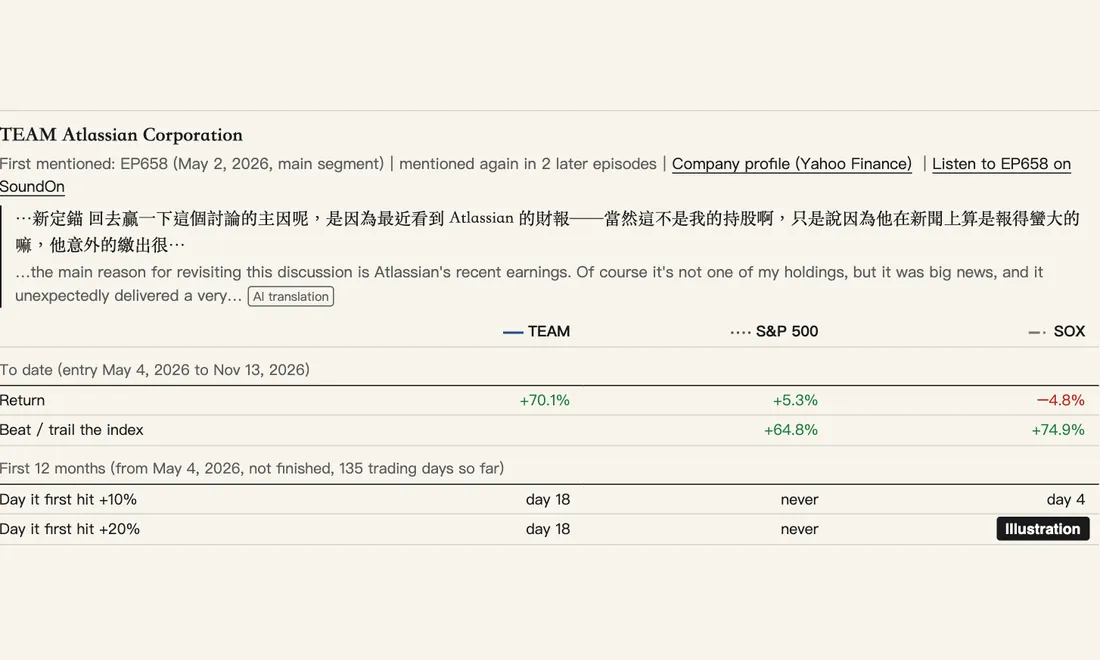
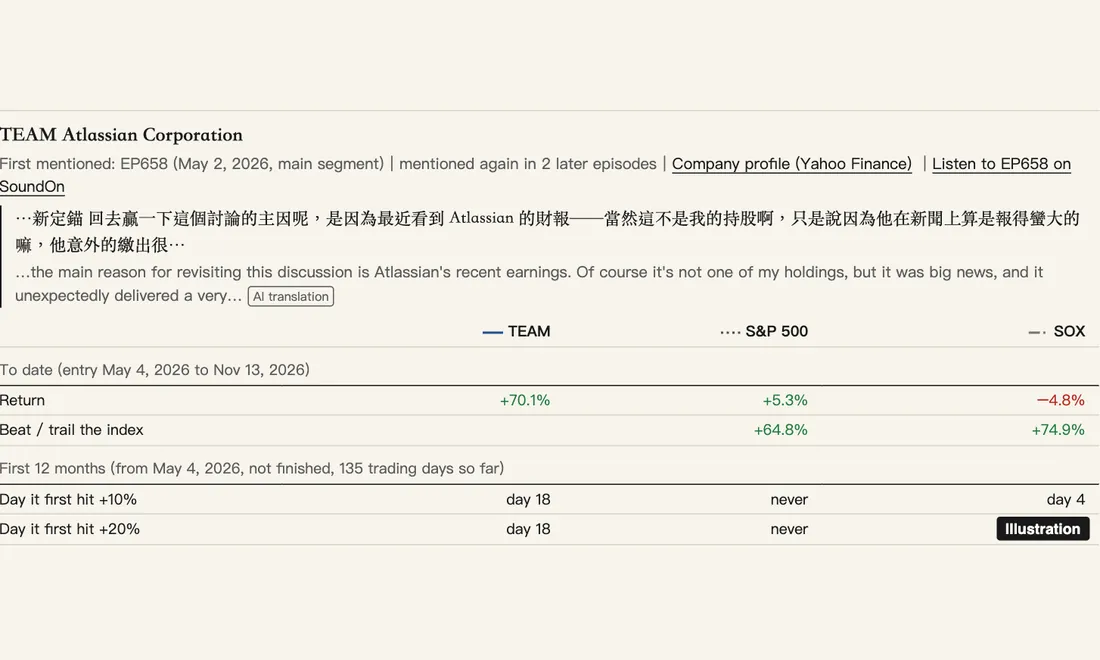
第十二版介面：明細拿掉本益比、本益比說明三行、純文字切換鈕與年份選單；每股盈餘更新

diff --git a/site/assets/i18n.js b/site/assets/i18n.js
@@ -57,16 +57,13 @@ const I18N = {
     modeRet: "報酬",
     modePe: "本益比",
     peInfoLabel: { mention: "首次提及時本益比說明", now: "現在本益比說明", fwd: "預估本益比說明" },
+    // 第一行標題、第二行公式、第三行說明（第十二版；表格的 ⓘ 和說明視窗共用）
     peInfo: {
-      mention: "首次提及時本益比：首次提及後進場那天的股價 ÷ 當時已公布的過去四季每股盈餘（正式財報）。和現在的本益比比較，可以看出股價變化是來自盈餘，還是市場給的評價變了。",
-      now: "現在本益比：股價 ÷ 過去四季每股盈餘（正式財報）。數字越高，代表市場願意為每一塊錢盈餘付越多，通常是期待成長，也可能是盈餘暫時很低。不同產業差很多，虧損的公司沒有本益比。只看本益比無法判斷是不是好買點。",
-      fwd: "預估本益比：股價 ÷ 分析師預估的未來 12 個月每股盈餘。預估可能落空，而且通常用調整後的盈餘，常比正式財報好看，所以常比現在本益比低，兩者不能直接比較。",
+      mention: "首次提及時本益比\n公式：首次提及後進場日的股價 ÷ 當時最近 4 季 EPS 總和\n和現在的本益比比較，可以看出股價變化是來自獲利，還是市場給的評價變了。",
+      now: "現在本益比\n公式：股價 ÷ 最近 4 季 EPS 總和\n衡量股價相對獲利的高低：越高代表股價相對獲利越貴，越低越便宜。但獲利成長越快，市場願意給的本益比也越高，所以要配合產業和成長性一起看。虧損的公司沒有本益比。",
+      fwd: "預估本益比\n公式：股價 ÷ 分析師預估的下一個會計年度 EPS\n預估可能落空，而且通常用調整後的獲利，常比正式財報好看，所以常低於現在本益比，兩者不能直接比較。",
     },
     peLoss: "虧損",
-    peSection: "本益比（只供參考）",
-    rowPeMention: "首次提及時本益比",
-    rowPeNow: "現在本益比",
-    rowPeFwd: "預估本益比（現在）",
     tableCaption: "每一檔第一次提到之後的報酬",
     yearAll: "全部",
     yearEarly: "早期（2020–2021）",
@@ -124,15 +121,11 @@ const I18N = {
     modePe: "P/E",
     peInfoLabel: { mention: "About P/E at first mention", now: "About P/E now", fwd: "About forward P/E" },
     peInfo: {
-      mention: "P/E at first mention: Share price on the entry day after the first mention ÷ the last four quarters of earnings per share reported by then (official filings). Comparing it with today’s P/E shows whether the price moved with earnings or with how much the market was willing to pay.",
-      now: "P/E now: Share price ÷ the last four quarters of earnings per share (official filings). A higher number means investors pay more for each dollar of earnings, usually because they expect growth, or because earnings are temporarily low. It varies a lot by industry, and loss-making companies have none. P/E alone can’t tell you whether it’s a good time to buy.",
-      fwd: "Forward P/E: Share price ÷ analysts’ estimate of earnings per share over the next 12 months. Estimates can miss, and they usually use adjusted earnings, which look better than official figures. That’s why it’s often lower than today’s P/E; the two aren’t directly comparable.",
+      mention: "P/E at first mention\nFormula: share price on the entry day after the first mention ÷ sum of EPS over the latest 4 quarters at the time\nComparing it with today’s P/E shows whether the price moved because of earnings or because the market’s valuation changed.",
+      now: "P/E now\nFormula: share price ÷ sum of EPS over the latest 4 quarters\nMeasures how high the price is relative to earnings: higher means pricier relative to earnings, lower means cheaper. But the faster earnings grow, the higher the P/E the market is willing to pay, so read it alongside the industry and growth. Loss-making companies have no P/E.",
+      fwd: "Forward P/E\nFormula: share price ÷ analysts’ EPS estimate for the next fiscal year\nEstimates can miss, and they usually use adjusted earnings, which tend to look better than official figures, so it is often lower than today’s P/E; the two aren’t directly comparable.",
     },
     peLoss: "Loss",
-    peSection: "P/E (reference only)",
-    rowPeMention: "P/E at first mention",
-    rowPeNow: "P/E now",
-    rowPeFwd: "Forward P/E (now)",
     tableCaption: "Return after each stock's first mention",
     yearAll: "All",
     yearEarly: "Early (2020–2021)",

diff --git a/site/assets/style.css b/site/assets/style.css
@@ -137,9 +137,23 @@ body { display: flex; flex-direction: column; height: 100vh; height: 100dvh; ove
 .chart-body { flex: 1; min-height: 0; display: flex; }
 .bubbles-panel .chips { padding: 0 0 8px; }
 .bubbles-panel .chips:empty { display: none; }
-/* 年份下拉選單 */
-.year-pick select { font: inherit; font-size: 0.85rem; color: var(--ink); background: var(--bg); border: 1px solid var(--ink);
-                    padding: 3px 6px; min-height: 32px; }
+/* 左欄上方三組（第十二版）：泡泡｜表格、報酬｜本益比、年份，和時間區間一樣是純文字、「｜」分隔、選中的粗體加底線；
+   組和組之間的間距比組內大；手機放不下時整組換行 */
+.bubbles-panel .panel-head { gap: 6px 22px; }
+.textseg { display: inline-flex; flex-wrap: nowrap; align-items: center; margin-left: -14px; clip-path: inset(-6px -6px -6px 14px); }
+.textseg button { position: relative; margin-left: 14px; border: 0; background: none; padding: 4px 6px; min-height: 32px;
+                  font-size: 0.9rem; color: var(--muted); }
+.textseg button::before { content: "｜" / ""; color: var(--rule); position: absolute; left: -14px; width: 14px;
+                          text-align: center; font-weight: 400; text-decoration: none; }
+.textseg button[aria-pressed="true"] { color: var(--ink); font-weight: 700; text-decoration: underline;
+                                       text-underline-offset: 5px; text-decoration-thickness: 2px; }
+.textseg button:focus-visible { outline-offset: -2px; }
+/* 年份：文字樣式「年份：全部 ▾」，底層是原生的 select（手機用系統的選擇器，讀屏軟體讀得到） */
+.year-pick { position: relative; display: inline-flex; align-items: center; gap: 4px; font-size: 0.9rem; color: var(--muted); white-space: nowrap; }
+.year-pick select { appearance: none; -webkit-appearance: none; font: inherit; color: var(--ink); background: transparent; border: 0;
+                    padding: 4px 16px 4px 0; min-height: 32px; cursor: pointer; }
+.year-pick .caret { position: absolute; right: 2px; pointer-events: none; color: var(--ink); font-size: 0.75rem; }
+.year-pick select:focus-visible { outline: 2px solid var(--ink); outline-offset: 0; }
 .chart { flex: 1; min-width: 0; min-height: 0; position: relative; touch-action: pan-y; }
 .chart-foot { display: flex; flex-wrap: wrap; gap: 6px 12px; align-items: center; padding: 6px 0; }
 /* 時間區間：像 Google 財經，文字用「｜」分隔；選中的加底線和粗體（不只靠顏色） */
@@ -283,12 +297,12 @@ dialog.tour { max-width: 760px; }
 /* 本益比的 ⓘ 說明（第十一版） */
 .info { border: 1px solid var(--muted); background: var(--bg); color: var(--muted); border-radius: 50%; width: 20px; height: 20px;
         padding: 0; font-size: 0.72rem; line-height: 1; vertical-align: 1px; margin-left: 2px; cursor: pointer; }
-.info[aria-expanded="true"] { background: var(--ink); color: var(--bg); border-color: var(--ink); }
 .info-pop { position: fixed; left: 0; top: 0; z-index: 60; max-width: min(320px, calc(100vw - 16px)); background: var(--bg);
             border: 1px solid var(--ink); padding: 10px 12px; font-size: 0.82rem; line-height: 1.6; }
+/* 說明：標題、公式、說明各一行（第十二版）；ⓘ 打開時樣子不變，只靠說明框出現表示 */
+.info-pop strong, .info-pop span, .pe-info strong, .pe-info span { display: block; }
 /* 表頭的 ⓘ 放在欄名下面一行、靠右（和數字對齊）：欄位維持欄名的寬度，不會蓋到隔壁欄 */
 .list thead th .info { display: block; margin: 0 4px 4px auto; }
 /* 表頭的按鈕規則（填滿整欄、最小高度 32px）不能套到 ⓘ：否則 ⓘ 變成整欄寬，打開時是一大塊黑色橢圓（第十一版修正） */
 .list thead th button.info { width: 20px; height: 20px; min-height: 0; padding: 0; color: var(--muted); font-size: 0.72rem; }
-.list thead th button.info[aria-expanded="true"] { color: var(--bg); }
 .list .sub { display: block; font-size: 0.65rem; font-weight: 400; color: var(--muted); white-space: normal; }

diff --git a/site/assets/app.js b/site/assets/app.js
@@ -65,9 +65,6 @@
     const row = (name, f) => `<tr><th scope="row">${name}</th>${cols.map(([k]) => f(k)).join("")}</tr>`;
     const path = (name, f, c = () => "") => row(name, (k) => (p[k] ? td(p[k], f, c(p[k])) : `<td class="n">—</td>`));
     const at = (v, d) => `${F.pct(v)}<span class="u">${T.atDay(d)}</span>`;
-    // 本益比只有這一檔自己的（大盤的欄位空著）
-    const peRow = (name, v, kind) => `<tr><th scope="row">${name} ${Info.button(kind)}</th><td class="n">${F.pe(v)}</td>` +
-      `<td class="n"></td><td class="n"></td></tr>`;
     const span = win.end ? T.window12(F.date(win.start), F.date(win.end)) : T.window12Open(F.date(win.start), p.stock.days);
     const sec = (text) => `<tr class="sec"><th scope="colgroup" colspan="${cols.length + 1}">${text}</th></tr>`;
     const company = LANG === "en" ? e.company_en || e.company : e.company;
@@ -90,10 +87,6 @@
           ${path(T.rowUp20, (m) => F.day(m.days_to_up))}
           ${path(T.rowMaxGain, (m) => at(m.max_gain, m.max_gain_day), (m) => F.cls(m.max_gain))}
           ${path(T.rowMaxLoss, (m) => at(m.max_loss, m.max_loss_day), (m) => F.cls(m.max_loss))}
-          ${sec(T.peSection)}
-          ${peRow(T.rowPeMention, b.pe && b.pe.mention, "mention")}
-          ${peRow(T.rowPeNow, b.pe && b.pe.now, "now")}
-          ${peRow(T.rowPeFwd, b.pe && b.pe.fwd, "fwd")}
         </tbody></table></div>`;
   }
 
@@ -175,6 +168,14 @@
   $("year").innerHTML = [["all", T.yearAll], ...years.map((y) => [y, y]), ["early", T.yearEarly]]
     .map(([v, n]) => `<option value="${v}">${n}</option>`).join("");
   const inYear = (y) => (b) => (y === "all" ? true : y === "early" ? b.early : !b.early && b.date.startsWith(y));
+  // 年份選單的寬度跟著目前選的那一項（原生 select 預設是最長選項的寬度，▾ 會離文字很遠）
+  const fitYear = () => {
+    const sel = $("year"), c = document.createElement("canvas").getContext("2d");
+    c.font = getComputedStyle(sel).font;
+    sel.style.width = Math.ceil(c.measureText(sel.options[sel.selectedIndex].text).width) + 26 + "px";  // 文字＋▾ 的空間
+  };
+  fitYear();
+  $("year").addEventListener("change", fitYear);
   $("year").addEventListener("change", () => {
     const f = inYear($("year").value);
     Bubbles.setItems(items.filter(f));

diff --git a/site/assets/info.js b/site/assets/info.js
@@ -1,10 +1,13 @@
-// 本益比欄名旁的 ⓘ 說明（2026-11-16 第十一版）：表格和明細表共用。
+// 本益比欄名旁的 ⓘ 說明（2026-11-16 第十一版；第十二版起只在表格，說明視窗共用同一份文字）。
 // 電腦：滑過顯示、點一下固定；手機：點一下顯示、再點一次或點別處關閉；鍵盤：Enter／空白鍵打開、Esc 關閉並回到按鈕。
 // 每個按鈕有自己的可存取名稱（例如「現在本益比說明」），打開時用 aria-describedby 連到說明文字。
 "use strict";
 const Info = (() => {
   let pop, current = null, pinned = false;
   const hover = matchMedia("(hover: hover) and (pointer: fine)");
+
+  // 說明文字：第一行標題（粗體），之後每一行一段（公式、說明）；文字是網站自己的，沒有外來內容
+  const peInfoHtml = (kind) => T.peInfo[kind].split("\n").map((line, i) => (i ? `<span>${line}</span>` : `<strong>${line}</strong>`)).join("");
 
   const button = (kind) => `<button type="button" class="info" data-info="${kind}" aria-label="${T.peInfoLabel[kind]}" ` +
     `aria-expanded="false" aria-controls="info-pop">ⓘ</button>`;
@@ -19,7 +22,7 @@ const Info = (() => {
   function show(btn, pin) {
     if (current && current !== btn) hide();
     current = btn; pinned = pinned || pin;
-    pop.textContent = T.peInfo[btn.dataset.info];
+    pop.innerHTML = peInfoHtml(btn.dataset.info);
     pop.hidden = false;
     btn.setAttribute("aria-expanded", "true");
     btn.setAttribute("aria-describedby", "info-pop");
@@ -62,5 +65,5 @@ const Info = (() => {
     addEventListener("resize", () => current && place(current));
   }
 
-  return { init, button };
+  return { init, button, peInfoHtml };
 })();

diff --git a/site/index.html b/site/index.html
@@ -43,15 +43,15 @@
 <main class="grid">
   <section class="bubbles-panel" aria-label="每一檔第一次提到之後至今，和 S&amp;P 500 比">
     <div class="panel-head">
-      <div class="seg" role="group" aria-label="顯示方式">
+      <div class="textseg" role="group" aria-label="顯示方式">
         <button type="button" data-view="bubbles" aria-pressed="true">泡泡</button>
         <button type="button" data-view="table" aria-pressed="false">表格</button>
       </div>
-      <label class="year-pick"><span class="visually-hidden">首次提及的年份</span><select id="year"></select></label>
-      <div class="seg" role="group" aria-label="表格內容" id="table-mode" hidden>
+      <div class="textseg" role="group" aria-label="表格內容" id="table-mode" hidden>
         <button type="button" data-mode="ret" aria-pressed="true">報酬</button>
         <button type="button" data-mode="pe" aria-pressed="false">本益比</button>
       </div>
+      <label class="year-pick">年份：<select id="year" aria-label="首次提及的年份"></select><span class="caret" aria-hidden="true">▾</span></label>
     </div>
     <div class="chips" id="chips"></div>
     <div class="bubbles-wrap">

diff --git a/site/en/index.html b/site/en/index.html
@@ -43,15 +43,15 @@
 <main class="grid">
   <section class="bubbles-panel" aria-label="Each stock since its first mention, vs the S&amp;P 500">
     <div class="panel-head">
-      <div class="seg" role="group" aria-label="View">
+      <div class="textseg" role="group" aria-label="View">
         <button type="button" data-view="bubbles" aria-pressed="true">Bubbles</button>
         <button type="button" data-view="table" aria-pressed="false">Table</button>
       </div>
-      <label class="year-pick"><span class="visually-hidden">Year of first mention</span><select id="year"></select></label>
-      <div class="seg" role="group" aria-label="Table columns" id="table-mode" hidden>
+      <div class="textseg" role="group" aria-label="Table columns" id="table-mode" hidden>
         <button type="button" data-mode="ret" aria-pressed="true">Returns</button>
         <button type="button" data-mode="pe" aria-pressed="false">P/E</button>
       </div>
+      <label class="year-pick">Year:<select id="year" aria-label="Year of first mention"></select><span class="caret" aria-hidden="true">▾</span></label>
     </div>
     <div class="chips" id="chips"></div>
     <div class="bubbles-wrap">

diff --git a/site/assets/dialogs.js b/site/assets/dialogs.js
@@ -96,7 +96,7 @@ const Dialogs = (() => {
 
   // 本益比怎麼看（只供參考；第十一版：三個說明和表格、明細表的 ⓘ 同一份文字）
   function peSection() {
-    const items = ["mention", "now", "fwd"].map((k) => `<li>${T.peInfo[k]}</li>`).join("");
+    const items = ["mention", "now", "fwd"].map((k) => `<li class="pe-info">${Info.peInfoHtml(k)}</li>`).join("");
     if (en) return `
       <h3>How to read the P/E ratios (reference only)</h3>
       <ul>
